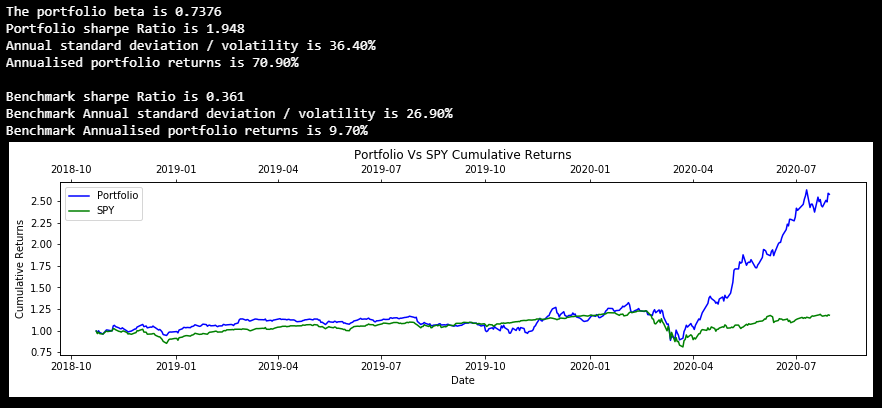
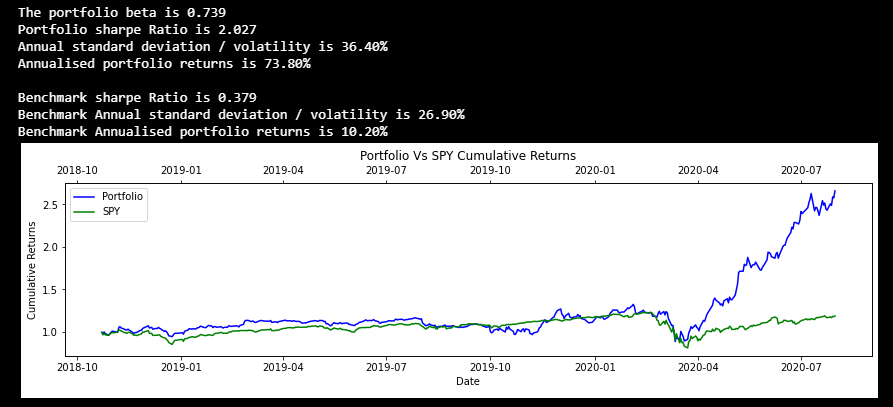
Updated the charts, changed email

diff --git a/index.html b/index.html
@@ -450,19 +450,22 @@
         <p>
           I hope to connect and meet individuals who are as passionate in eCommerce, fin-tech and/or finance. 
         </p>
-        <h3>US Equities core portfolio VS SPY ~ 2018/10/23 - 2020/7/30</h3>
-        <amp-img src="images\port_vs_spy_1.png" alt="portfolio VS SPY // 2018/10/23 - 2020/7/30" width="882" height="408" layout="responsive" noloading>
+        <h3>US Equities core portfolio VS SPY ~ 2018/10/23 - 2020/08/01</h3>
+        <amp-img src="images\port_vs_spy_1.png" alt="portfolio VS SPY // 2018/10/23 - 2020/7/30" width="893" height="407" layout="responsive" noloading>
         </amp-img>        
-        <h3>US Equities core portfolio Efficient Frontier 10,000 simulations ~ 2018/10/23 - 2020/7/30</h3>
-        <amp-img src="images\Efficient_Frontier.png" alt="Efficient Frontier" width="889" height="519" layout="responsive" noloading>
+        <h3>US Equities core portfolio Efficient Frontier 10,000 simulations ~ 2018/10/23 - 2020/08/01</h3>
+        <amp-img src="images\Efficient_Frontier.png" alt="Efficient Frontier" width="801" height="740" layout="responsive" noloading>
         </amp-img>
-        <h3>US Equities core portfolio VS SPY ~ 2015/10/23 - 2020/7/30</h3>
-        <amp-img src="images\port_vs_spy_2.png" alt="portfolio VS SPY // 2015/10/23 - 2020/7/30" width="886" height="410" layout="responsive" noloading>
+        <h3>US Equities core portfolio VS SPY ~ 2015/01/01 - 2020/08/01</h3>
+        <amp-img src="images\port_vs_spy_4.png" alt="portfolio VS SPY // 2015/10/23 - 2020/7/30" width="884" height="406" layout="responsive" noloading>
+        </amp-img>
+        <h3>US Equities core portfolio VS SPY ~ 2010/01/01 - 2020/08/01</h3>
+        <amp-img src="images\port_vs_spy_3.png" alt="portfolio VS SPY // 2015/10/23 - 2020/7/30" width="877" height="405" layout="responsive" noloading>
         </amp-img>
         <div class="contact">
           <ul>
             <li>
-              <a href="mailto:RichardWangZC@outlook.com" target="_blank" rel="noopener noreferrer" aria-label="Email RichardWangZC@outlook.com">✉</a>
+              <a href="mailto:6d4134hb6@relay.firefox.com" target="_blank" rel="noopener noreferrer" aria-label="Email 6d4134hb6@relay.firefox.com">✉</a>
             </li>
           </ul>
         </div>
